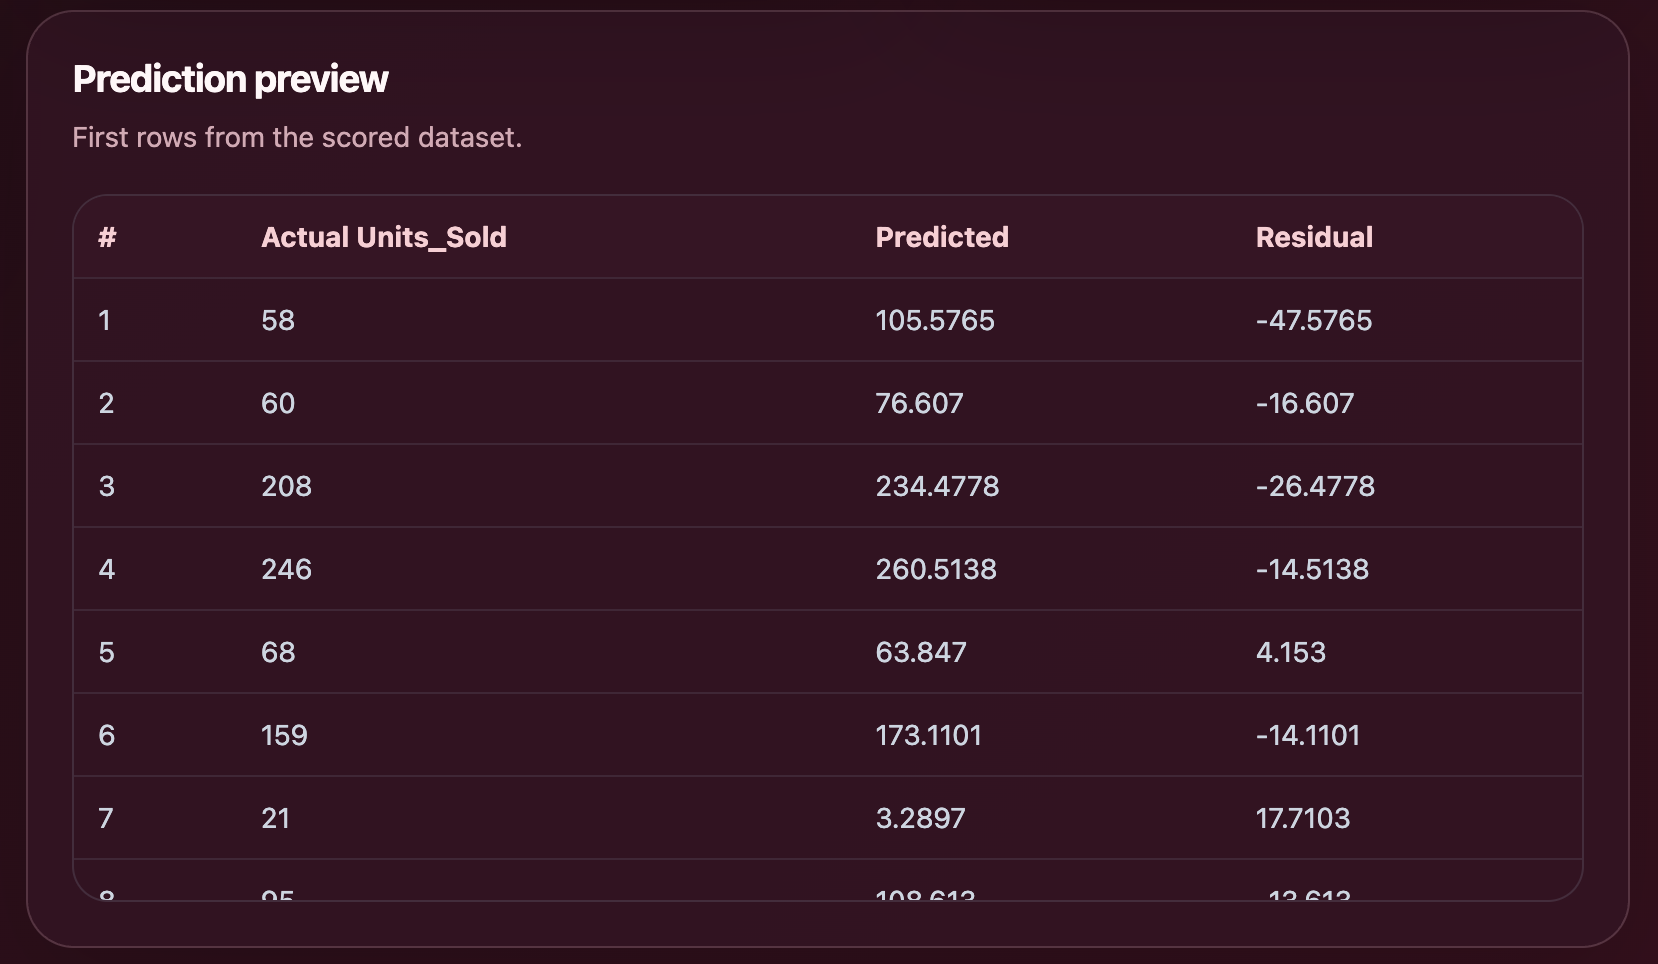
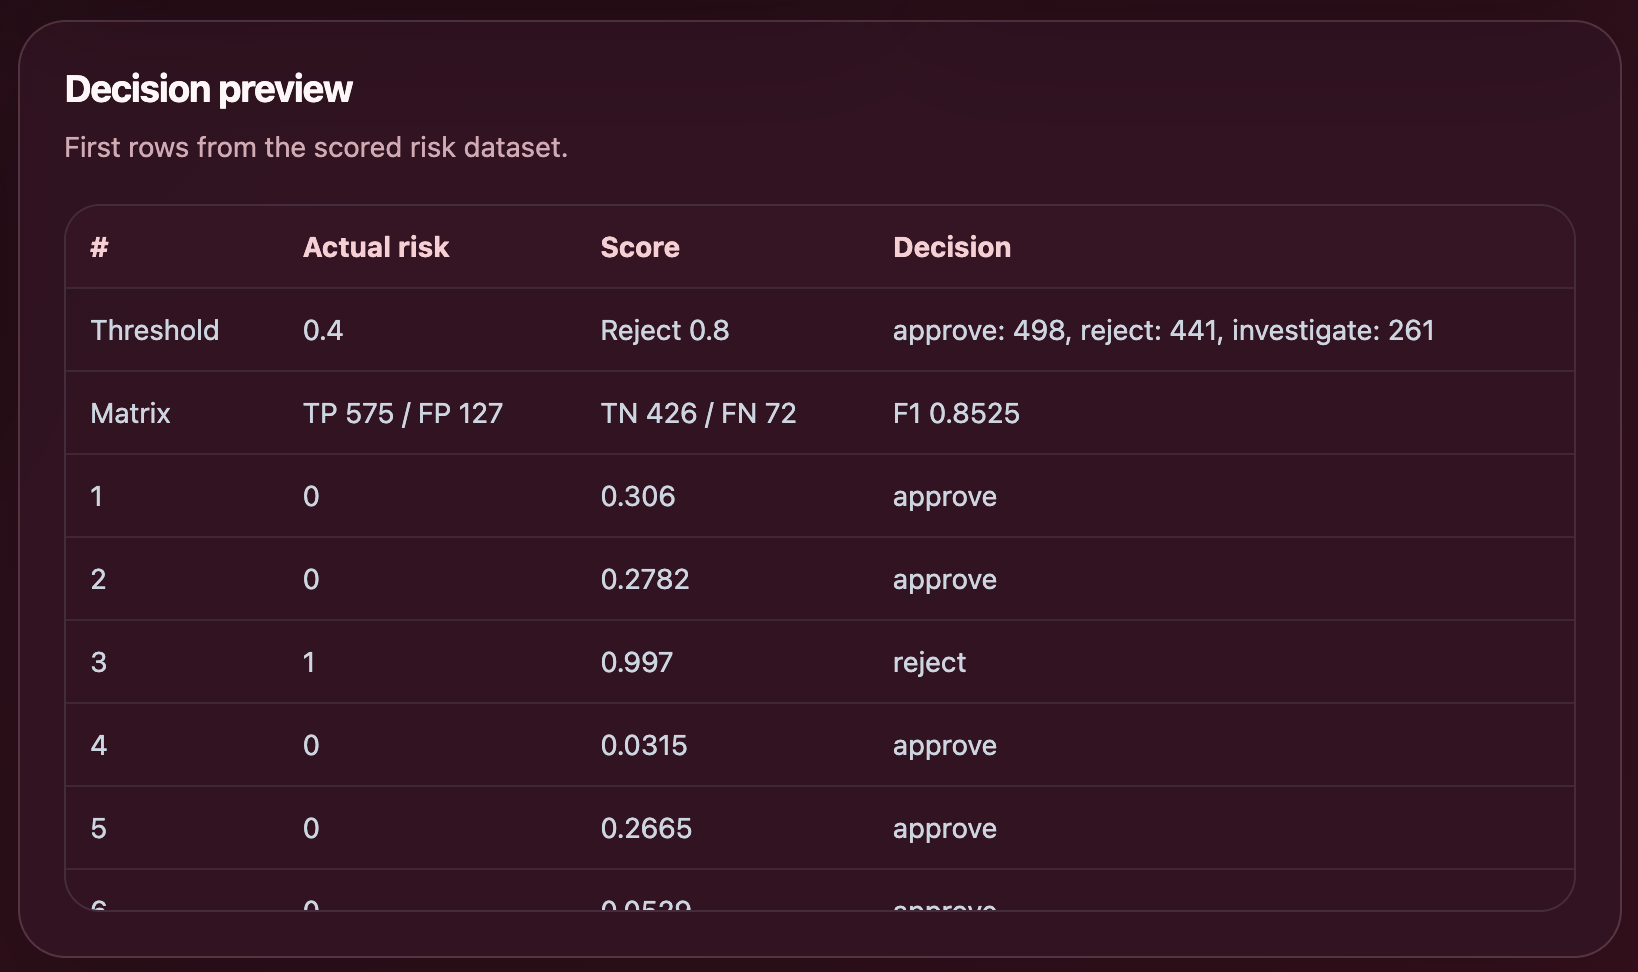
Preview Image Changing

diff --git a/README.md b/README.md
@@ -10,6 +10,10 @@ A reproducible analytics and lakehouse project that combines the original R repo
 
 <img src="./images/apex-insights-preview-3.png" alt="apex-insights Preview 3" width="100%" />
 
+<img src="./images/apex-insights-preview-4.png" alt="apex-insights Preview 3" width="100%" />
+
+<img src="./images/apex-insights-preview-5.png" alt="apex-insights Preview 3" width="100%" />
+
 ## Frontend Dashboard
 
 This project includes a static frontend in `public/index.html` for quick demos and portfolio deployment. The dashboard lets you upload a CSV file, load the bundled sample dataset, choose target and feature columns, run a baseline linear regression in JavaScript, and view metrics, coefficients, predictions, and an actual-vs-predicted chart.
@@ -98,27 +102,32 @@ After a successful PySpark pipeline run:
 
 ```text
 Apex-Insights/
-├── .github/workflows/ci.yml
-├── artifacts/
-│   ├── data/preds.rds
-│   ├── lakehouse/
-│   │   ├── bronze/
-│   │   ├── silver/
-│   │   └── gold/
-│   ├── models/model.rds
-│   ├── reconciliation/
-│   └── reports/
-├── data/raw/
-│   ├── accounts.csv
-│   ├── customers.json
-│   ├── input.csv
-│   ├── merchant_categories.csv
-│   ├── risk_scores.csv
-│   └── transactions.csv
-├── docs/performance_optimization.md
-├── public/index.html
+├── .github/
+│   └── workflows/
+│       └── ci.yml
 ├── R/
-├── reports/report.qmd
+│   ├── clean.R
+│   ├── features.R
+│   ├── io_read.R
+│   ├── io_write.R
+│   ├── logging.R
+│   ├── model_score.R
+│   ├── model_train.R
+│   ├── model_validation.R
+│   ├── utils.R
+│   └── validate.R
+├── src/
+│   └── apex_insights/
+│       ├── __init__.py
+│       ├── __main__.py
+│       ├── config.py
+│       ├── ingest.py
+│       ├── model.py
+│       ├── pipeline.py
+│       ├── quality.py
+│       ├── reconcile.py
+│       ├── transform.py
+│       └── write.py
 ├── sql/
 │   ├── 01_create_tables.sql
 │   ├── 02_data_quality_checks.sql
@@ -126,25 +135,101 @@ Apex-Insights/
 │   ├── 04_customer_monthly_summary.sql
 │   ├── 05_window_functions.sql
 │   └── 06_optimization_notes.sql
-├── src/apex_insights/
-│   ├── config.py
-│   ├── ingest.py
-│   ├── model.py
-│   ├── pipeline.py
-│   ├── quality.py
-│   ├── reconcile.py
-│   ├── transform.py
-│   └── write.py
+├── data/
+│   ├── external/
+│   │   └── .gitkeep
+│   └── raw/
+│       ├── accounts.csv
+│       ├── customers.json
+│       ├── input.csv
+│       ├── merchant_categories.csv
+│       ├── risk_scores.csv
+│       └── transactions.csv
 ├── tests/
 │   ├── python/
-│   └── testthat/
-├── docker-compose.yml
+│   │   └── test_pipeline_contract.py
+│   ├── testthat/
+│   │   ├── helper-source.R
+│   │   ├── test-clean.R
+│   │   ├── test-model-validation.R
+│   │   └── tests/
+│   │       └── testthat/
+│   │           └── test-model-train.R
+│   └── testthat.R
+├── public/
+│   └── index.html
+├── images/
+│   ├── apex-insights-preview-1.png
+│   ├── apex-insights-preview-2.png
+│   ├── apex-insights-preview-3.png
+│   ├── apex-insights-preview-4.png
+│   └── apex-insights-preview-5.png
+├── artifacts/
+│   ├── .gitkeep
+│   ├── data/
+│   │   ├── .gitkeep
+│   │   └── preds.rds
+│   └── models/
+│       ├── .gitkeep
+│       └── model.rds
+├── renv/
+│   ├── .gitignore
+│   └── activate.R
+├── .Rprofile
+├── .gitignore
+├── .lintr
+├── .mailmap
+├── _targets.R
+├── config.yml
 ├── Dockerfile
+├── docker-compose.yml
+├── LICENSE
 ├── Makefile
 ├── pyproject.toml
-├── requirements.txt
+├── README.md
 ├── renv.lock
+├── requirements.txt
 └── vercel.json
+```
+
+## Runtime Generated Outputs
+
+```text
+artifacts/
+├── data/
+│   └── preds.rds
+├── models/
+│   └── model.rds
+├── lakehouse/
+│   ├── bronze/
+│   ├── silver/
+│   └── gold/
+├── reports/
+│   ├── data_quality_report.json
+│   ├── data_quality_report.md
+│   └── model_validation_report.md
+└── reconciliation/
+    └── reconciliation_report.csv
+```
+
+## Generated Outputs
+
+```text
+artifacts/
+├── data/
+│   └── preds.rds
+├── models/
+│   └── model.rds
+├── lakehouse/
+│   ├── bronze/
+│   ├── silver/
+│   └── gold/
+├── reports/
+│   ├── data_quality_report.json
+│   ├── data_quality_report.md
+│   └── model_validation_report.md
+└── reconciliation/
+    └── reconciliation_report.csv
 ```
 
 ## Requirements